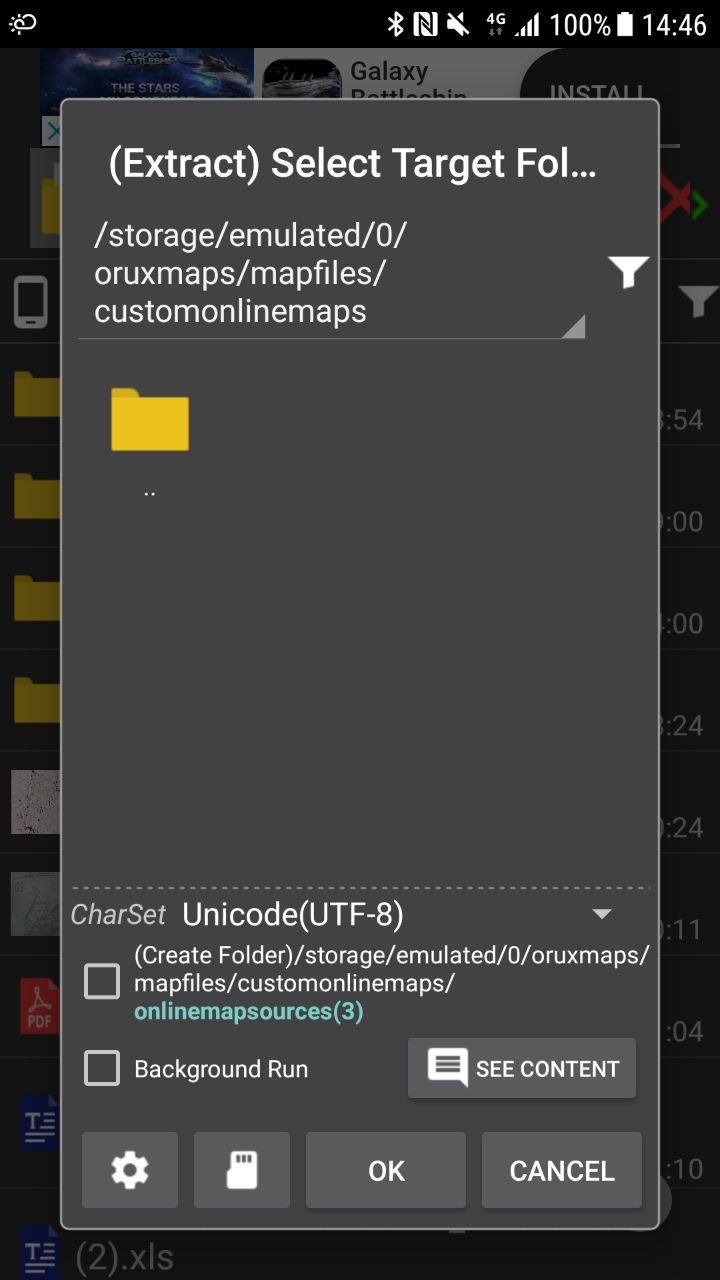
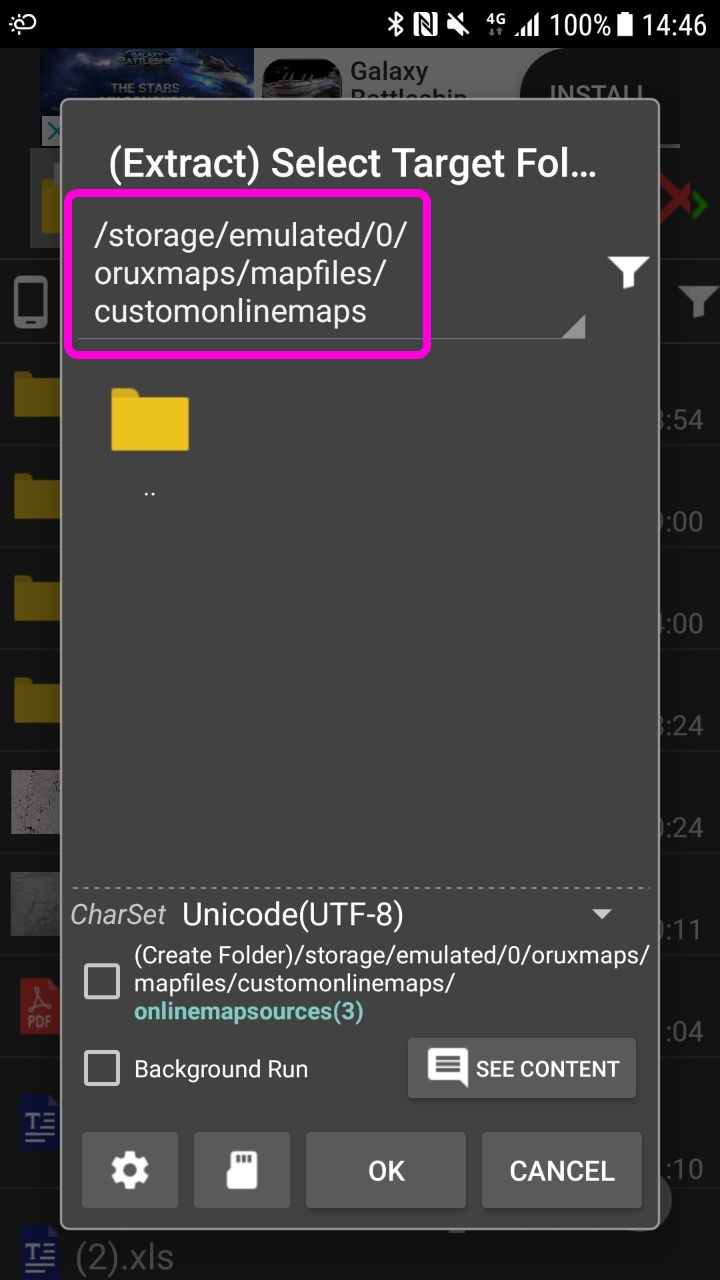
Update documentation and screenshots

Changed region(s): [[0.0611, 0.125, 0.6111, 0.2812]]

diff --git a/README.md b/README.md
@@ -1,2 +1,38 @@
 # tw_mapsources
 Online map sources of Taiwan
+
+# Installation Guide
+1. Visit https://goo.gl/9YJ4LF to download onlinemapsources.zip
+2. Extract onlinemapsources.zip to [path_to_oruxmaps]/mapfiles/customonlinemaps/
+3. Reset cache or refresh list if necessary
+
+Extraction destination (location of custom onlinemapsources.xml)
+<div><img src="extract_dest.jpg" width="320"/></div>
+
+Refresh online map list
+<div><img src="refresh_list.jpg" width="320"/></div>
+
+Reset online map cache (Global setting > Maps > Reset online cache)
+<div><img src="reset_cache.jpg" width="320"/></div>
+
+# Map Sources
+1899-日治臺灣全圖
+1904-日治臺灣堡圖(明治版)-1:20,000
+1916-日治蕃地地形圖-1:50,000
+1921-日治臺灣堡圖(大正版)-1:20,000
+1924-日治地形圖(陸地測量部)-1:50,000
+1936-五十萬分一輿地圖
+1944-美軍地形圖-1:50,000
+1945-美軍繪製臺灣城市地圖
+1945-台北美軍航照影像
+1956-臺灣土地利用及林型圖
+1956-臺灣地形圖-1:50,000
+1966-臺灣省水利工程、水文站及基準點位置圖
+1989-臺灣經建1版地形圖-1:25,000
+2001-臺灣經建3版地形圖-1:25,000
+通用版電子地圖
+地圖產生器-魯地圖
+地圖產生器-經建三
+
+# Map URLs and Zoom Levels
+https://goo.gl/tCZBDR
